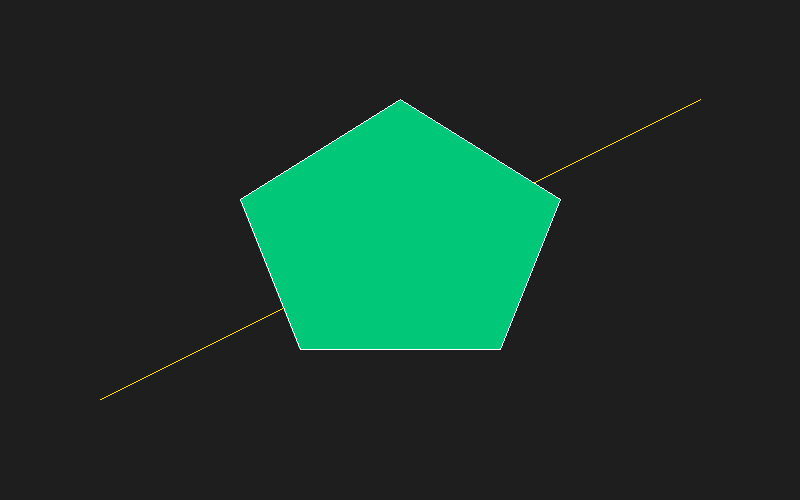
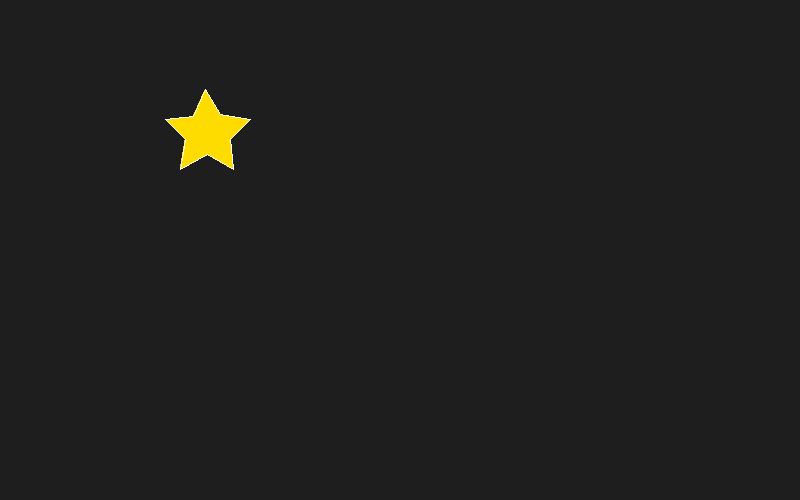
feat: Added the first polygon, a yellow star with white border

Changed region(s): [[0.2812, 0.21, 0.7188, 0.72], [0.1875, 0.18, 0.3125, 0.33]]

diff --git a/src/main.rs b/src/main.rs
@@ -5,8 +5,6 @@ mod polygon;
 
 use raylib::prelude::*;
 use framebuffer::Framebuffer;
-use point::point;
-use line::line;
 use polygon::{polygon, fill_polygon};
 
 fn main() {
@@ -18,30 +16,23 @@ fn main() {
     framebuffer.set_background_color(bg);
     framebuffer.clear();
 
-    // draw a dot
-    framebuffer.set_current_color(Color::WHITE);
-    point(&mut framebuffer, Vector2::new(400.0, 250.0));
-
-    // draw a line
-    framebuffer.set_current_color(Color::new(255, 220, 0, 255));
-    line(
-        &mut framebuffer,
-        Vector2::new(100.0, 100.0),
-        Vector2::new(700.0, 400.0),
-    );
-
-    // draw a filled polygon with its outline on top
-    let vertices: &[Vector2] = &[
-        Vector2::new(300.0, 150.0),
-        Vector2::new(500.0, 150.0),
-        Vector2::new(560.0, 300.0),
-        Vector2::new(400.0, 400.0),
-        Vector2::new(240.0, 300.0),
+    // Polygon 1
+    let p1: &[Vector2] = &[
+        Vector2::new(165.0, 380.0),
+        Vector2::new(185.0, 360.0),
+        Vector2::new(180.0, 330.0),
+        Vector2::new(207.0, 345.0),
+        Vector2::new(233.0, 330.0),
+        Vector2::new(230.0, 360.0),
+        Vector2::new(250.0, 380.0),
+        Vector2::new(220.0, 385.0),
+        Vector2::new(205.0, 410.0),
+        Vector2::new(193.0, 383.0),
     ];
-    framebuffer.set_current_color(Color::new(0, 200, 120, 255));
-    fill_polygon(&mut framebuffer, vertices);
+    framebuffer.set_current_color(Color::new(255, 220, 0, 255));
+    fill_polygon(&mut framebuffer, p1);
     framebuffer.set_current_color(Color::WHITE);
-    polygon(&mut framebuffer, vertices);
+    polygon(&mut framebuffer, p1);
 
     framebuffer.render_to_png("out.png");
 